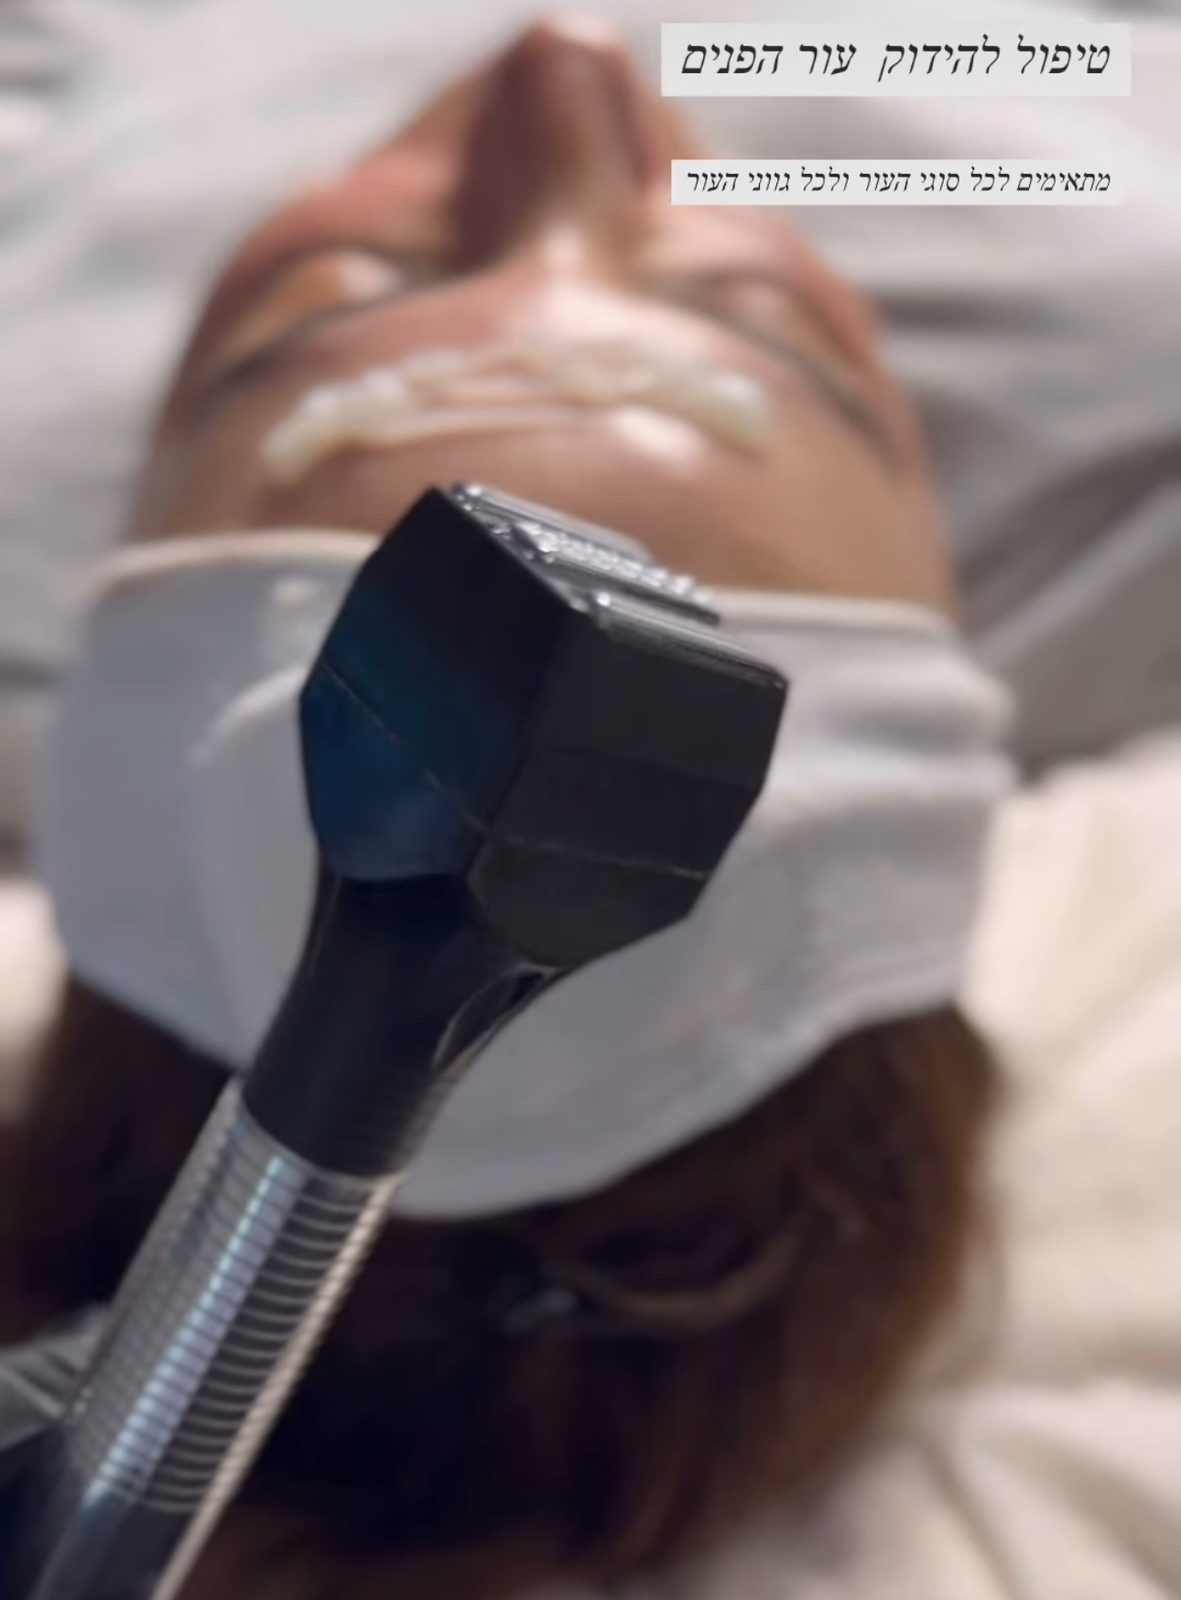
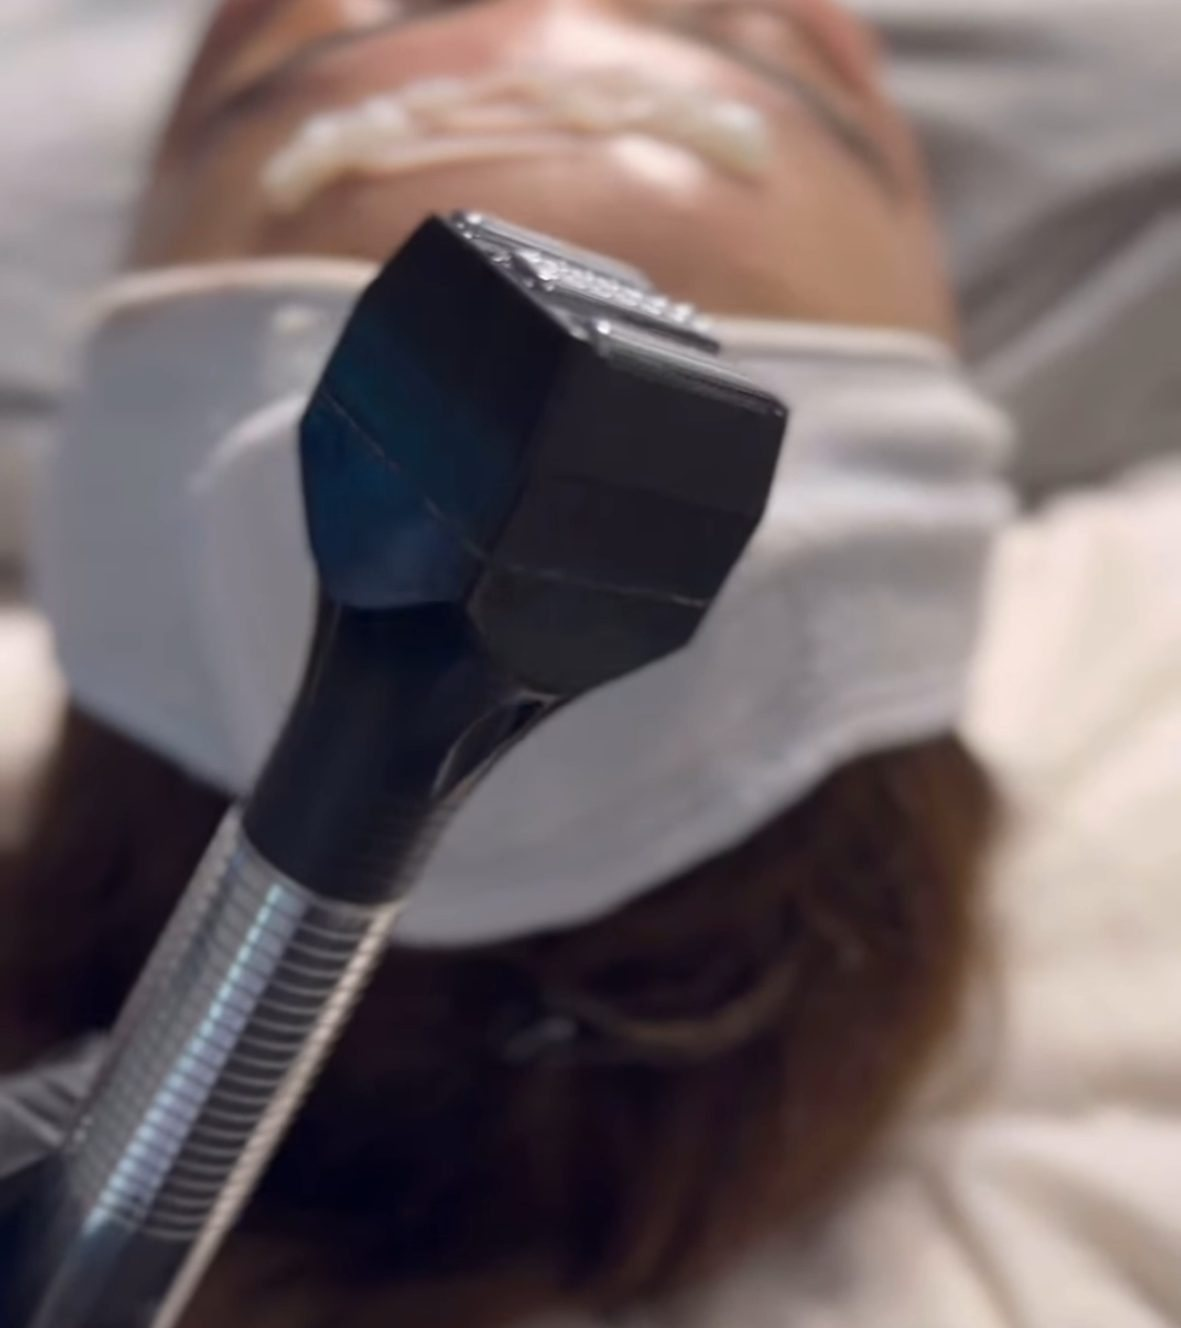
Switch typography to Open Sans
Replaces Frank Ruhl Libre and Assistant with Open Sans across headings,
body and figures, rebalancing heading weight and tracking for a sans
face. Keeps a serif only for the quotation mark and the signature.
Restores the gold accent on emphasised headline words and crops the
overlaid caption out of the hero photograph.

Claude-Session: https://claude.ai/code/session_01QJkEPB9viCo8j1QGMgNmyy

diff --git a/assets/site.css b/assets/site.css
@@ -18,9 +18,10 @@
   --line:rgba(20,17,14,.13);
   --line-lt:rgba(255,255,255,.14);
 
-  --display:'Frank Ruhl Libre',Georgia,serif;
-  --body:'Assistant','Heebo',system-ui,sans-serif;
-  --num:'Bellefair',Georgia,serif;
+  --display:'Open Sans','Assistant',system-ui,sans-serif;
+  --body:'Open Sans','Assistant',system-ui,sans-serif;
+  --num:'Open Sans','Assistant',system-ui,sans-serif;
+  --num-feat:'tnum' 1;
 
   --r-sm:6px; --r-md:14px; --r-lg:24px;
   --pad:clamp(20px,6vw,104px);
@@ -41,14 +42,14 @@ button{font:inherit;color:inherit;background:none;border:0;cursor:pointer}
 :focus-visible{outline:2px solid var(--gold);outline-offset:3px;border-radius:3px}
 
 /* ---------- טיפוגרפיה ---------- */
-h1,h2,h3,h4{font-family:var(--display);font-weight:500;line-height:1.06;letter-spacing:-.015em;margin:0;text-wrap:balance}
+h1,h2,h3,h4{font-family:var(--display);font-weight:300;line-height:1.12;letter-spacing:-.028em;margin:0;text-wrap:balance}
 h1{font-size:clamp(38px,5.6vw,86px)}
 h2{font-size:clamp(30px,4.2vw,60px)}
 h3{font-size:clamp(21px,2.2vw,32px)}
 h4{font-size:clamp(18px,1.5vw,22px)}
 p{margin:0 0 1.1em;max-width:62ch}
 em{font-style:normal;color:var(--gold)}
-.serif-it{font-family:var(--display);font-style:italic;font-weight:400}
+.serif-it{font-family:var(--display);font-style:normal;font-weight:600;color:var(--gold)}
 
 .eyebrow{
   display:flex;align-items:center;gap:12px;margin:0 0 26px;
@@ -164,7 +165,7 @@ em{font-style:normal;color:var(--gold)}
 .hero .lead{margin-bottom:34px}
 .hero-cta{display:flex;flex-wrap:wrap;gap:13px;margin-bottom:40px}
 .proof{display:flex;align-items:center;gap:15px;font-size:14.5px;color:var(--muted)}
-.proof b{font-family:var(--num);font-size:23px;color:var(--ink);letter-spacing:.02em}
+.proof b{font-family:var(--num);font-size:23px;font-variant-numeric:tabular-nums;font-weight:300;color:var(--ink);letter-spacing:.02em}
 .stack{display:flex}
 .stack i{width:37px;height:37px;border-radius:50%;display:grid;place-items:center;font-style:normal;font-size:14px;font-weight:600;
   border:2px solid var(--ivory);margin-inline-start:-11px;background:var(--sand-deep);color:var(--ink)}
@@ -186,14 +187,14 @@ em{font-style:normal;color:var(--gold)}
 .marq{border-block:1px solid var(--line);background:var(--ivory);overflow:hidden;padding-block:17px}
 .marq-t{display:flex;gap:52px;width:max-content;animation:marq 34s linear infinite}
 .marq:hover .marq-t{animation-play-state:paused}
-.marq-t span{font-family:var(--num);font-size:19px;letter-spacing:.09em;color:var(--muted);display:flex;align-items:center;gap:52px;white-space:nowrap}
+.marq-t span{font-family:var(--num);font-size:15px;font-weight:600;letter-spacing:.17em;color:var(--muted);display:flex;align-items:center;gap:52px;white-space:nowrap}
 .marq-t span::after{content:"✦";color:var(--gold);font-size:12px}
 @keyframes marq{to{transform:translateX(50%)}}
 
 /* ---------- סרגל ערכים ---------- */
 .pillars{display:grid;grid-template-columns:repeat(4,1fr);gap:1px;background:var(--line)}
 .pillars>article{background:var(--ivory);padding:34px clamp(18px,2vw,32px)}
-.pillars b{font-family:var(--num);font-size:34px;color:var(--gold);display:block;line-height:1;margin-bottom:14px}
+.pillars b{font-family:var(--num);font-size:34px;font-variant-numeric:tabular-nums;font-weight:300;color:var(--gold);display:block;line-height:1;margin-bottom:14px}
 .pillars strong{display:block;font-family:var(--display);font-size:19px;font-weight:500;margin-bottom:6px}
 .pillars p{font-size:14px;color:var(--muted);margin:0}
 
@@ -222,9 +223,9 @@ em{font-style:normal;color:var(--gold)}
 .about-fig img{width:100%;height:100%;object-fit:cover}
 .stamp{position:absolute;z-index:6;bottom:-24px;inset-inline-start:-24px;background:var(--gold);color:#fff;border-radius:var(--r-md);
   padding:19px 24px;display:flex;align-items:center;gap:14px}
-.stamp b{font-family:var(--num);font-size:42px;line-height:1}
+.stamp b{font-family:var(--num);font-size:42px;font-variant-numeric:tabular-nums;font-weight:300;line-height:1}
 .stamp span{font-size:13px;line-height:1.35}
-.sig{font-family:var(--display);font-style:italic;font-size:34px;color:var(--gold-lt);margin:26px 0 20px}
+.sig{font-family:Georgia,serif;font-style:italic;font-size:34px;color:var(--gold-lt);margin:26px 0 20px}
 
 /* ---------- תוצאות / גלריה ---------- */
 .grid-g{display:grid;grid-template-columns:repeat(4,1fr);grid-auto-rows:224px;gap:14px}
@@ -241,8 +242,8 @@ em{font-style:normal;color:var(--gold)}
 .story{display:none;max-width:840px}
 .story.on{display:block;animation:fadeup .55s var(--ease)}
 @keyframes fadeup{from{opacity:0;transform:translateY(15px)}to{opacity:1;transform:none}}
-.qm{font-family:var(--display);font-size:76px;color:var(--gold-lt);line-height:.62;margin-bottom:20px}
-.story p{font-family:var(--display);font-size:clamp(21px,2.4vw,34px);line-height:1.35;font-weight:400;margin-bottom:30px;max-width:none}
+.qm{font-family:Georgia,serif;font-size:86px;color:var(--gold-lt);line-height:.55;margin-bottom:18px}
+.story p{font-family:var(--display);font-size:clamp(20px,2.2vw,31px);line-height:1.42;font-weight:300;letter-spacing:-.02em;margin-bottom:30px;max-width:none}
 .story footer{display:flex;align-items:center;gap:14px}
 .av{width:50px;height:50px;border-radius:50%;background:var(--gold);color:#fff;display:grid;place-items:center;font-weight:600;font-size:18px}
 .story footer strong{display:block;font-size:16px}
@@ -254,14 +255,14 @@ em{font-style:normal;color:var(--gold)}
 .wa-grid figure{margin:0;border:1px solid var(--line);border-radius:var(--r-md);overflow:hidden;max-height:322px;background:var(--sand)}
 .wa-grid img{width:100%;height:100%;object-fit:cover;object-position:top}
 .ribbon{display:flex;flex-wrap:wrap;align-items:center;gap:18px;padding-top:30px;margin-top:52px;border-top:1px solid var(--line);font-size:14.5px;color:var(--muted)}
-.ribbon b{font-family:var(--num);font-size:29px;color:var(--ink)}
+.ribbon b{font-family:var(--num);font-size:29px;font-variant-numeric:tabular-nums;font-weight:300;color:var(--ink)}
 .ribbon a{margin-inline-start:auto;font-weight:600;color:var(--ink);border-bottom:1px solid var(--gold);padding-bottom:3px}
 
 /* ---------- שאלות ותשובות ---------- */
 .faq{display:grid;grid-template-columns:.62fr 1fr;gap:clamp(42px,8vw,130px)}
 .acc details{border-bottom:1px solid var(--line)}
 .acc summary{list-style:none;cursor:pointer;display:flex;justify-content:space-between;align-items:flex-start;gap:22px;
-  padding:23px 0;font-family:var(--display);font-size:clamp(17.5px,1.55vw,22px);font-weight:500}
+  padding:23px 0;font-family:var(--display);font-size:clamp(17px,1.45vw,20.5px);font-weight:600}
 .acc summary::-webkit-details-marker{display:none}
 .acc summary i{font-style:normal;color:var(--gold);font-size:21px;flex:none;line-height:1.2;transition:transform .35s var(--ease)}
 .acc details[open] summary i{transform:rotate(45deg)}

diff --git a/about.html b/about.html
@@ -11,7 +11,7 @@
 <link rel="icon" href="assets/logo.png" type="image/png">
 <link rel="preconnect" href="https://fonts.googleapis.com">
 <link rel="preconnect" href="https://fonts.gstatic.com" crossorigin>
-<link rel="stylesheet" href="https://fonts.googleapis.com/css2?family=Frank+Ruhl+Libre:wght@300;400;500;700&family=Assistant:wght@300;400;500;600;700&family=Bellefair&display=swap">
+<link rel="stylesheet" href="https://fonts.googleapis.com/css2?family=Open+Sans:ital,wght@0,300;0,400;0,500;0,600;0,700;0,800;1,300;1,400;1,600&family=Assistant:wght@300;400;600&display=swap">
 <link rel="stylesheet" href="assets/site.css">
 </head>
 <body>

diff --git a/contact.html b/contact.html
@@ -11,7 +11,7 @@
 <link rel="icon" href="assets/logo.png" type="image/png">
 <link rel="preconnect" href="https://fonts.googleapis.com">
 <link rel="preconnect" href="https://fonts.gstatic.com" crossorigin>
-<link rel="stylesheet" href="https://fonts.googleapis.com/css2?family=Frank+Ruhl+Libre:wght@300;400;500;700&family=Assistant:wght@300;400;500;600;700&family=Bellefair&display=swap">
+<link rel="stylesheet" href="https://fonts.googleapis.com/css2?family=Open+Sans:ital,wght@0,300;0,400;0,500;0,600;0,700;0,800;1,300;1,400;1,600&family=Assistant:wght@300;400;600&display=swap">
 <link rel="stylesheet" href="assets/site.css">
 </head>
 <body>

diff --git a/facials.html b/facials.html
@@ -11,7 +11,7 @@
 <link rel="icon" href="assets/logo.png" type="image/png">
 <link rel="preconnect" href="https://fonts.googleapis.com">
 <link rel="preconnect" href="https://fonts.gstatic.com" crossorigin>
-<link rel="stylesheet" href="https://fonts.googleapis.com/css2?family=Frank+Ruhl+Libre:wght@300;400;500;700&family=Assistant:wght@300;400;500;600;700&family=Bellefair&display=swap">
+<link rel="stylesheet" href="https://fonts.googleapis.com/css2?family=Open+Sans:ital,wght@0,300;0,400;0,500;0,600;0,700;0,800;1,300;1,400;1,600&family=Assistant:wght@300;400;600&display=swap">
 <link rel="stylesheet" href="assets/site.css">
 </head>
 <body>

diff --git a/faq.html b/faq.html
@@ -11,7 +11,7 @@
 <link rel="icon" href="assets/logo.png" type="image/png">
 <link rel="preconnect" href="https://fonts.googleapis.com">
 <link rel="preconnect" href="https://fonts.gstatic.com" crossorigin>
-<link rel="stylesheet" href="https://fonts.googleapis.com/css2?family=Frank+Ruhl+Libre:wght@300;400;500;700&family=Assistant:wght@300;400;500;600;700&family=Bellefair&display=swap">
+<link rel="stylesheet" href="https://fonts.googleapis.com/css2?family=Open+Sans:ital,wght@0,300;0,400;0,500;0,600;0,700;0,800;1,300;1,400;1,600&family=Assistant:wght@300;400;600&display=swap">
 <link rel="stylesheet" href="assets/site.css">
 </head>
 <body>

diff --git a/gallery.html b/gallery.html
@@ -11,7 +11,7 @@
 <link rel="icon" href="assets/logo.png" type="image/png">
 <link rel="preconnect" href="https://fonts.googleapis.com">
 <link rel="preconnect" href="https://fonts.gstatic.com" crossorigin>
-<link rel="stylesheet" href="https://fonts.googleapis.com/css2?family=Frank+Ruhl+Libre:wght@300;400;500;700&family=Assistant:wght@300;400;500;600;700&family=Bellefair&display=swap">
+<link rel="stylesheet" href="https://fonts.googleapis.com/css2?family=Open+Sans:ital,wght@0,300;0,400;0,500;0,600;0,700;0,800;1,300;1,400;1,600&family=Assistant:wght@300;400;600&display=swap">
 <link rel="stylesheet" href="assets/site.css">
 </head>
 <body>

diff --git a/index.html b/index.html
@@ -11,7 +11,7 @@
 <link rel="icon" href="assets/logo.png" type="image/png">
 <link rel="preconnect" href="https://fonts.googleapis.com">
 <link rel="preconnect" href="https://fonts.gstatic.com" crossorigin>
-<link rel="stylesheet" href="https://fonts.googleapis.com/css2?family=Frank+Ruhl+Libre:wght@300;400;500;700&family=Assistant:wght@300;400;500;600;700&family=Bellefair&display=swap">
+<link rel="stylesheet" href="https://fonts.googleapis.com/css2?family=Open+Sans:ital,wght@0,300;0,400;0,500;0,600;0,700;0,800;1,300;1,400;1,600&family=Assistant:wght@300;400;600&display=swap">
 <link rel="stylesheet" href="assets/site.css">
 </head>
 <body>

diff --git a/laser.html b/laser.html
@@ -11,7 +11,7 @@
 <link rel="icon" href="assets/logo.png" type="image/png">
 <link rel="preconnect" href="https://fonts.googleapis.com">
 <link rel="preconnect" href="https://fonts.gstatic.com" crossorigin>
-<link rel="stylesheet" href="https://fonts.googleapis.com/css2?family=Frank+Ruhl+Libre:wght@300;400;500;700&family=Assistant:wght@300;400;500;600;700&family=Bellefair&display=swap">
+<link rel="stylesheet" href="https://fonts.googleapis.com/css2?family=Open+Sans:ital,wght@0,300;0,400;0,500;0,600;0,700;0,800;1,300;1,400;1,600&family=Assistant:wght@300;400;600&display=swap">
 <link rel="stylesheet" href="assets/site.css">
 </head>
 <body>

diff --git a/skin-tags.html b/skin-tags.html
@@ -11,7 +11,7 @@
 <link rel="icon" href="assets/logo.png" type="image/png">
 <link rel="preconnect" href="https://fonts.googleapis.com">
 <link rel="preconnect" href="https://fonts.gstatic.com" crossorigin>
-<link rel="stylesheet" href="https://fonts.googleapis.com/css2?family=Frank+Ruhl+Libre:wght@300;400;500;700&family=Assistant:wght@300;400;500;600;700&family=Bellefair&display=swap">
+<link rel="stylesheet" href="https://fonts.googleapis.com/css2?family=Open+Sans:ital,wght@0,300;0,400;0,500;0,600;0,700;0,800;1,300;1,400;1,600&family=Assistant:wght@300;400;600&display=swap">
 <link rel="stylesheet" href="assets/site.css">
 </head>
 <body>

diff --git a/testimonials.html b/testimonials.html
@@ -11,7 +11,7 @@
 <link rel="icon" href="assets/logo.png" type="image/png">
 <link rel="preconnect" href="https://fonts.googleapis.com">
 <link rel="preconnect" href="https://fonts.gstatic.com" crossorigin>
-<link rel="stylesheet" href="https://fonts.googleapis.com/css2?family=Frank+Ruhl+Libre:wght@300;400;500;700&family=Assistant:wght@300;400;500;600;700&family=Bellefair&display=swap">
+<link rel="stylesheet" href="https://fonts.googleapis.com/css2?family=Open+Sans:ital,wght@0,300;0,400;0,500;0,600;0,700;0,800;1,300;1,400;1,600&family=Assistant:wght@300;400;600&display=swap">
 <link rel="stylesheet" href="assets/site.css">
 </head>
 <body>

diff --git a/treatments.html b/treatments.html
@@ -11,7 +11,7 @@
 <link rel="icon" href="assets/logo.png" type="image/png">
 <link rel="preconnect" href="https://fonts.googleapis.com">
 <link rel="preconnect" href="https://fonts.gstatic.com" crossorigin>
-<link rel="stylesheet" href="https://fonts.googleapis.com/css2?family=Frank+Ruhl+Libre:wght@300;400;500;700&family=Assistant:wght@300;400;500;600;700&family=Bellefair&display=swap">
+<link rel="stylesheet" href="https://fonts.googleapis.com/css2?family=Open+Sans:ital,wght@0,300;0,400;0,500;0,600;0,700;0,800;1,300;1,400;1,600&family=Assistant:wght@300;400;600&display=swap">
 <link rel="stylesheet" href="assets/site.css">
 </head>
 <body>

diff --git a/build.py b/build.py
@@ -87,7 +87,7 @@ SHELL = """<!doctype html>
 <link rel="icon" href="assets/logo.png" type="image/png">
 <link rel="preconnect" href="https://fonts.googleapis.com">
 <link rel="preconnect" href="https://fonts.gstatic.com" crossorigin>
-<link rel="stylesheet" href="https://fonts.googleapis.com/css2?family=Frank+Ruhl+Libre:wght@300;400;500;700&family=Assistant:wght@300;400;500;600;700&family=Bellefair&display=swap">
+<link rel="stylesheet" href="https://fonts.googleapis.com/css2?family=Open+Sans:ital,wght@0,300;0,400;0,500;0,600;0,700;0,800;1,300;1,400;1,600&family=Assistant:wght@300;400;600&display=swap">
 <link rel="stylesheet" href="assets/site.css">
 </head>
 <body>
